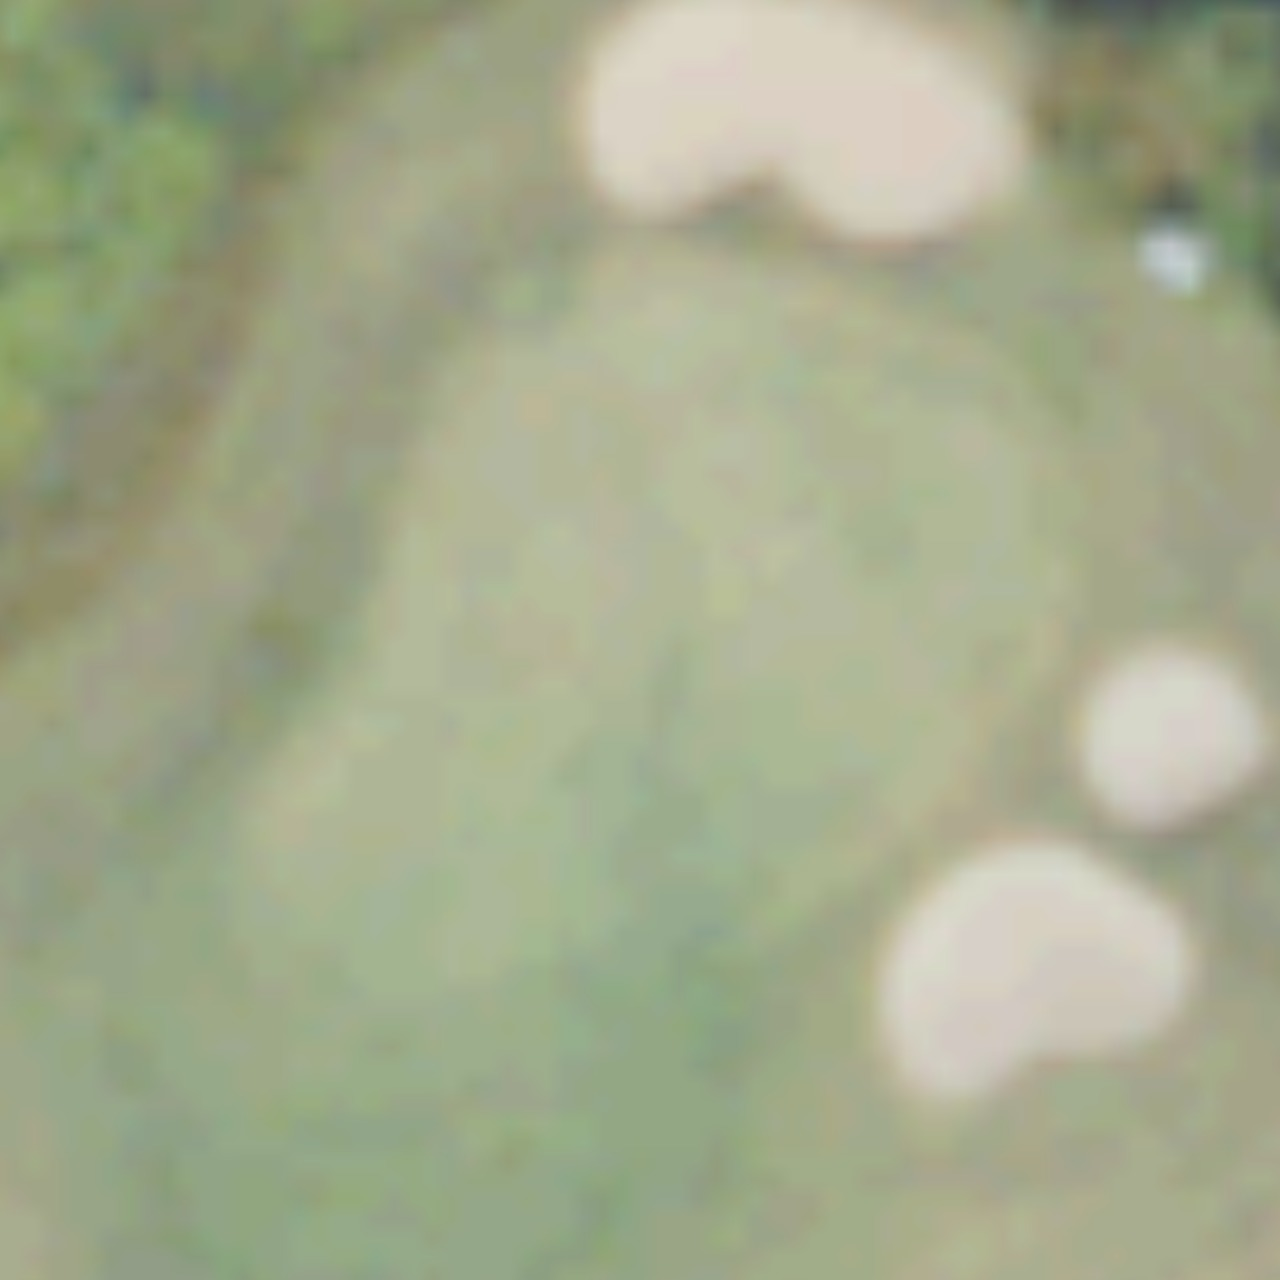
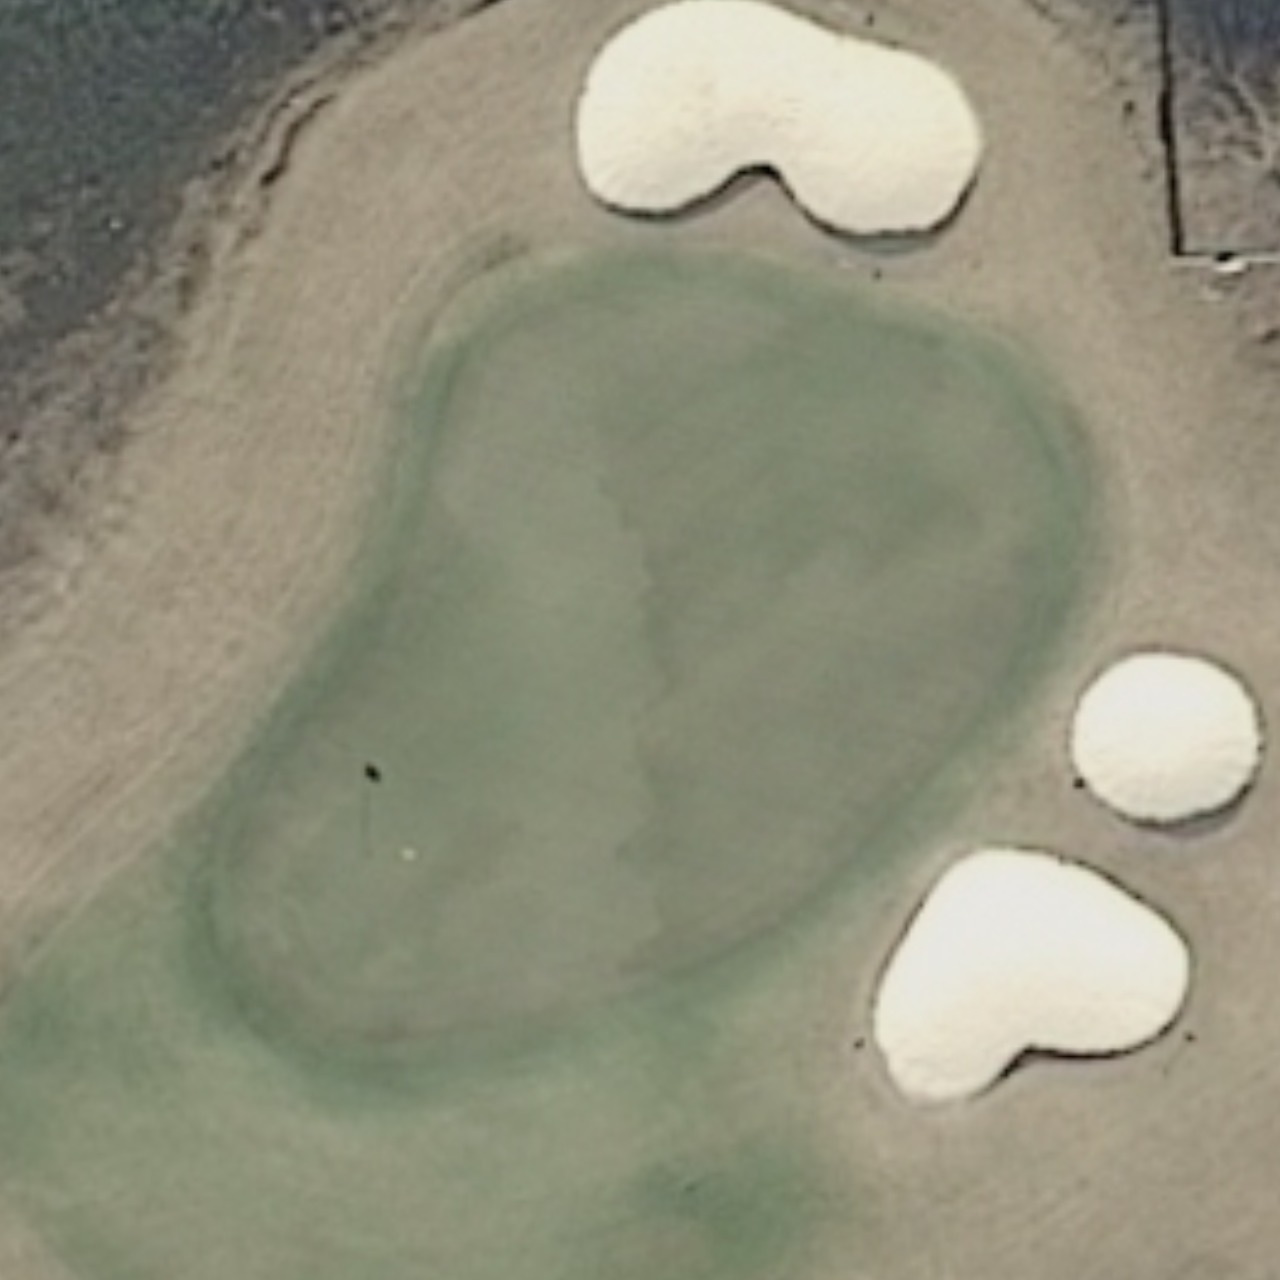
fix: sharpen static green aerials

diff --git a/src/pages/TurfHealth/MoistureWorkspace.jsx b/src/pages/TurfHealth/MoistureWorkspace.jsx
@@ -8,6 +8,7 @@ import { localTimestamp, parseTdrCsv } from '../../utils/moisture/tdrCsv'
 import {
   buildGreenProjection,
   compareGreenNames,
+  GREEN_AERIAL_VERSION,
   greenAerialFilename,
   groupGreenNames,
 } from '../../utils/moisture/greenMaps'
@@ -197,7 +198,7 @@ function metricSummary(metric, value) {
 
 function useGreenAerialImage(greenName) {
   const filename = greenAerialFilename(greenName)
-  const url = filename ? `/data/green-aerial/${filename}` : ''
+  const url = filename ? `/data/green-aerial/${filename}?v=${GREEN_AERIAL_VERSION}` : ''
   const [failedUrl, setFailedUrl] = useState('')
   const visibleUrl = url && failedUrl !== url ? url : ''
   return {

diff --git a/src/utils/moisture/greenMaps.js b/src/utils/moisture/greenMaps.js
@@ -55,6 +55,8 @@ export function greenAerialFilename(name) {
   return slug ? `${slug}.jpg` : ''
 }
 
+export const GREEN_AERIAL_VERSION = 'noaa-coastal-ga-2012-v1'
+
 export function greenCourseDetails(name) {
   let match = /^Green\s+(\d+)$/i.exec(name)
   if (match) {
